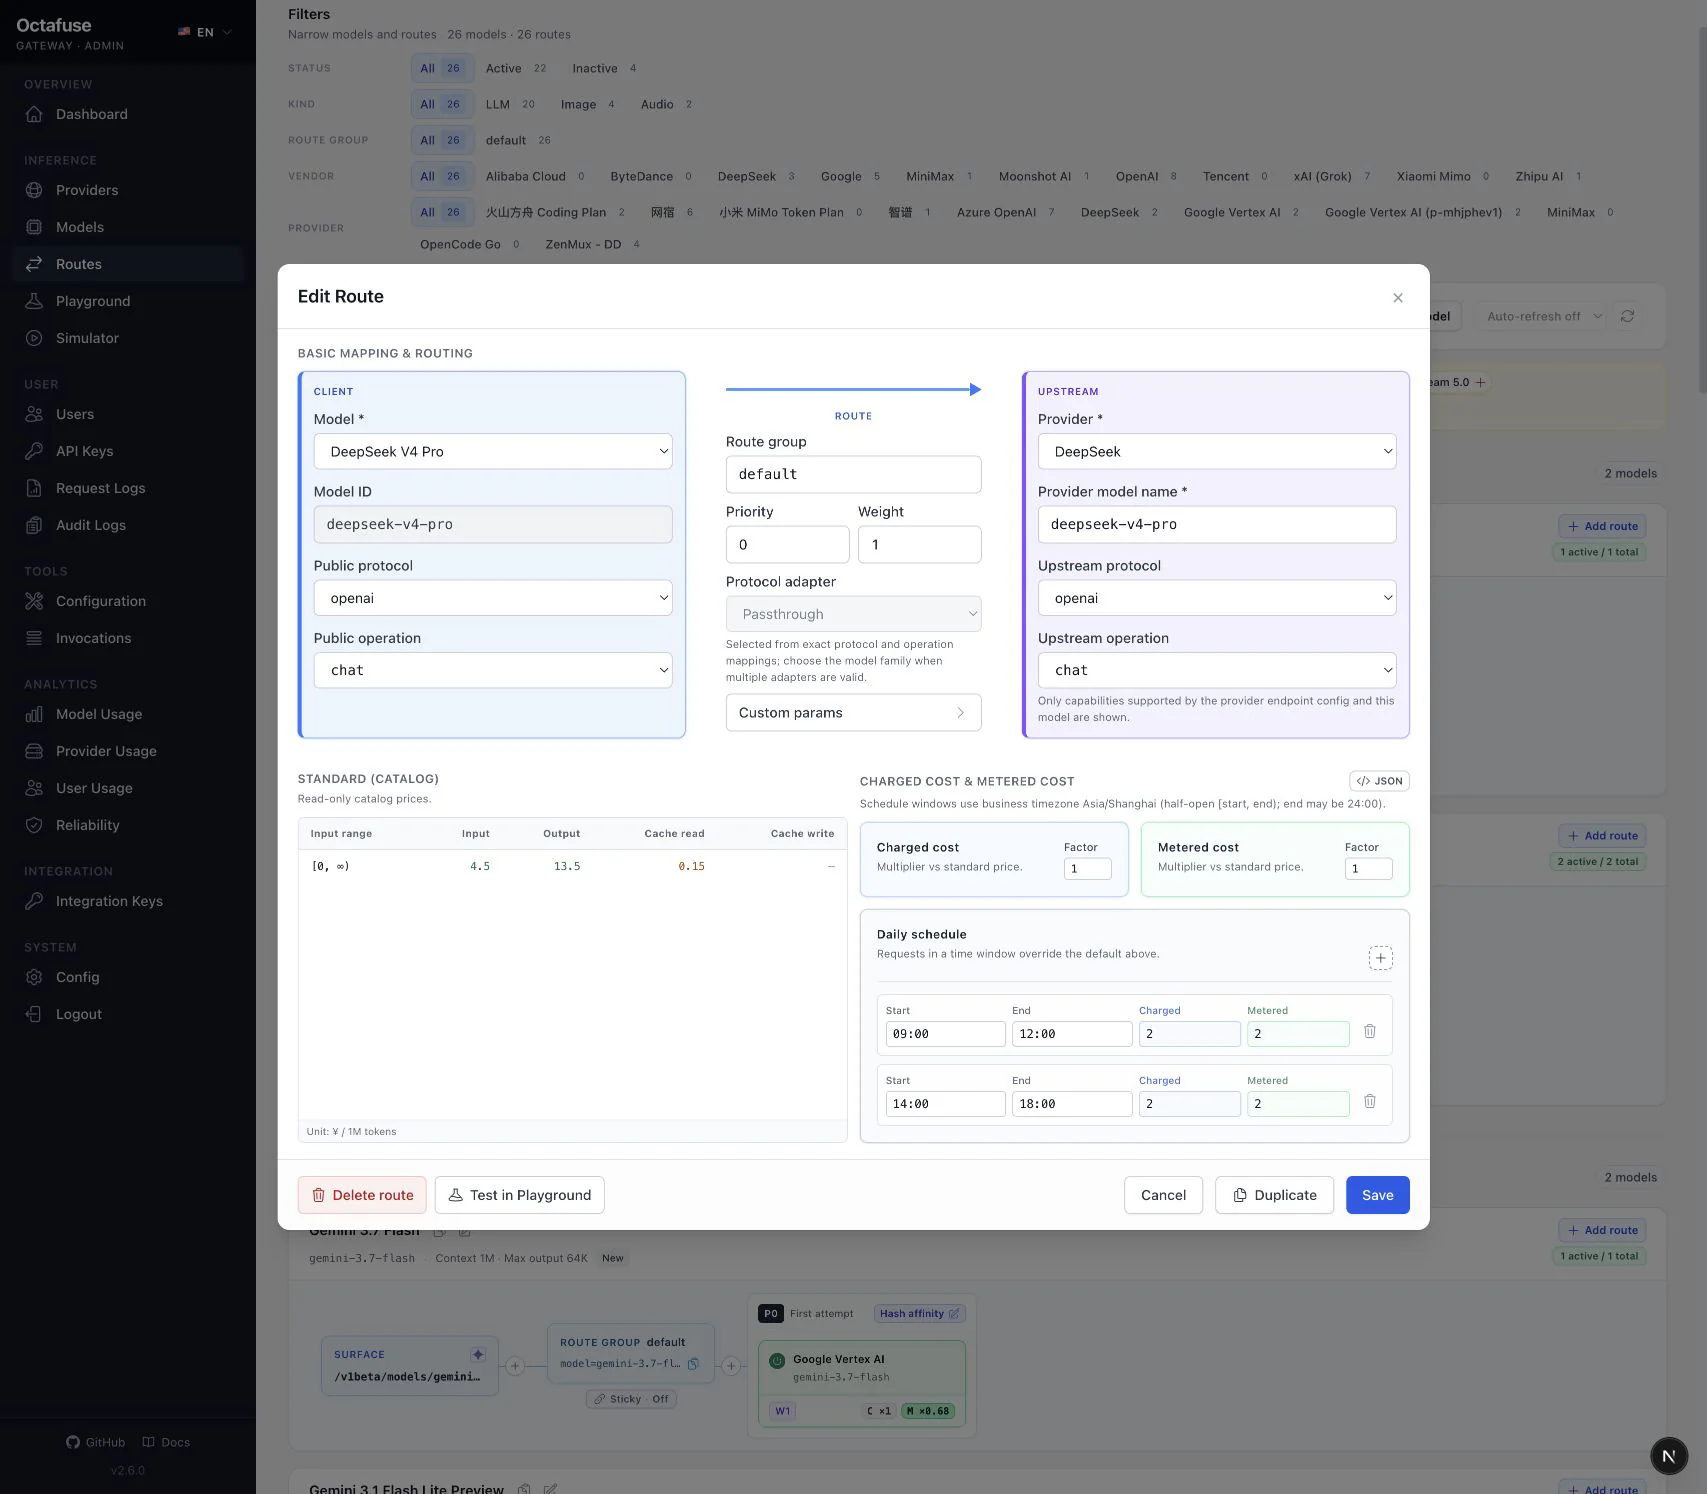
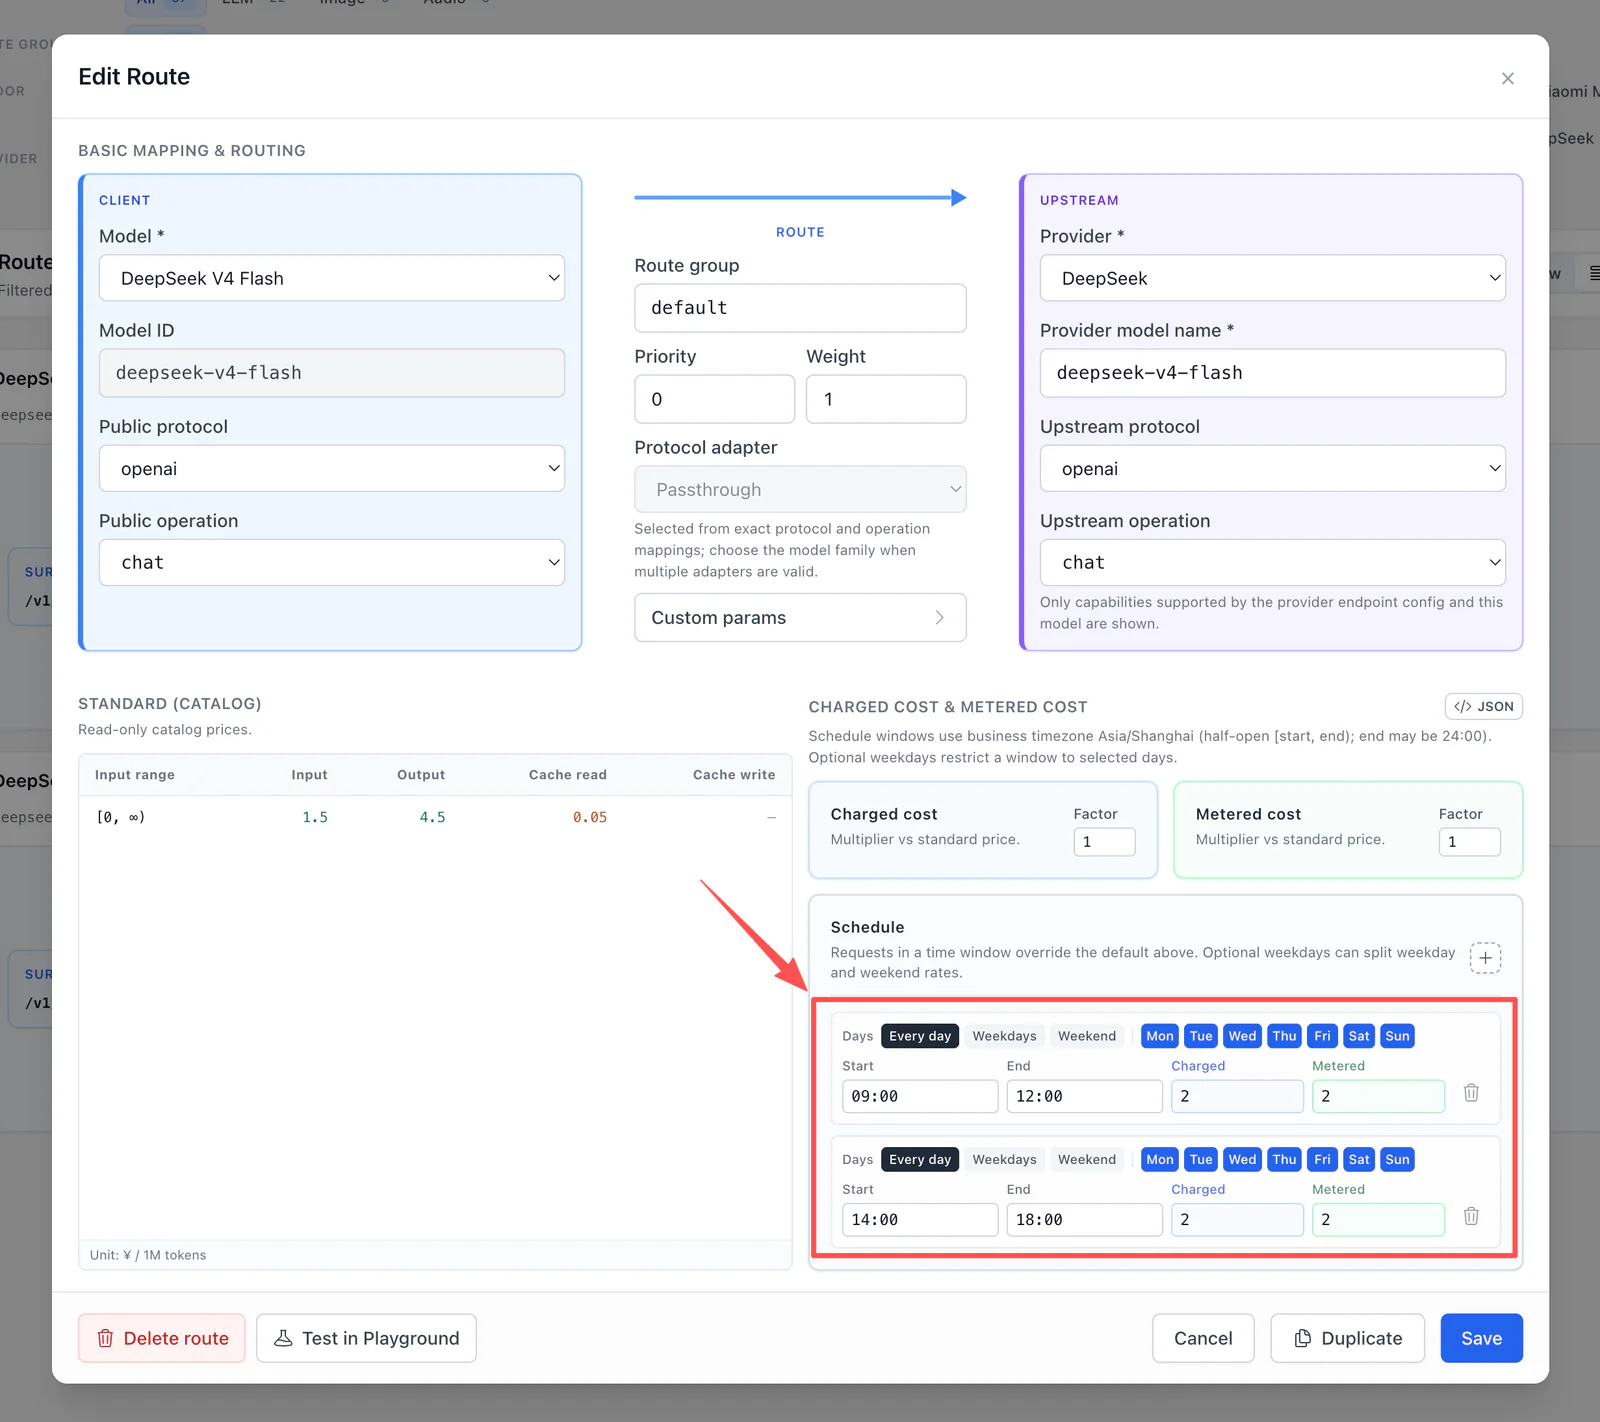
feat(docs): update README files to include new DashScope multimodal ASR and user-specific pricing factors
- Added documentation for the DashScope synchronous multimodal ASR endpoint across English, Japanese, Korean, and Chinese README files.
- Included details on per-model user factors for applying discounts or free access without altering catalog prices in the respective language files.
- Enhanced the overall clarity and completeness of the documentation to reflect recent feature updates.

diff --git a/docs/developers/architecture/runtime-data.md b/docs/developers/architecture/runtime-data.md
@@ -95,6 +95,11 @@ flowchart TB
 - 迁移 **`0019_route_strategy_canonical_ids`**（2.2.0 历史阶段）：将 `affinity` / `strict` / `round_robin` 硬切换为当时的 canonical ID `cache_affinity` / `fixed_order` / `weighted_round_robin`（`weighted_random` 不变）。覆盖 `system_config.ROUTE_STRATEGY`、`route_pools.strategy`、`route_pools.tier_strategies`、`models.route_policy`。历史步骤见 [route-strategy-canonical-ids-cutover.md](../../operators/migrations/route-strategy-canonical-ids-cutover.md)。
 - 迁移 **`0020_route_pool_sticky_routing`**：`route_pools` 增加 `sticky_enabled` / `sticky_idle_ttl_seconds` / `sticky_epoch`；新表 **`route_pool_sticky_bindings`**（跨 isolate 共享供应商粘性）。见 [route-pool-sticky-routing-cutover.md](../../operators/migrations/route-pool-sticky-routing-cutover.md)。
 - 迁移 **`0021_route_strategy_display_ids`**：将 `cache_affinity` / `fixed_order` 再次硬切换为现行 `hash_affinity` / `weight_priority`，覆盖上述四个持久化位置且无旧 ID 别名。维护窗口步骤与校验 SQL 见 [route-strategy-display-ids-cutover.md](../../operators/migrations/route-strategy-display-ids-cutover.md)。
+- 迁移 **`0022_request_log_audio_characters`**：请求日志增加 `audio_characters`，独立记录 TTS 上游返回的有效计费字符数。
+- 迁移 **`0023_admin_access_identity`**：新增 `admin_api_keys` / `admin_sessions`，并把历史 `system_config.MASTER_KEY` 复制为全权限 `legacy-master`。
+- 迁移 **`0024_drop_legacy_master_key_config`**：删除历史 `system_config.MASTER_KEY` 配置行；新版管理认证只读取具名 Admin API Key 与控制台会话。
+- 迁移 **`0025_user_audit_actor_index`**：为 `user_audit_logs(actor_id, created_at)` 增加操作主体查询索引。
+- 迁移 **`0026_user_charged_cost_factors`**：`users` 增加 `charged_cost_factors`，按目录模型 ID 保存用户计费倍率。
 
 #### Endpoint capability 维护规则
 
@@ -128,7 +133,7 @@ sequenceDiagram
 
   C->>P: Authorization Bearer sk-...
   P->>DB: getApiKeyWithUserByKey(key)
-  DB-->>P: key + user budget 列
+  DB-->>P: key + user budget 列 + charged_cost_factors
   P->>P: maybeResetBudget(user)
   alt 周期到期需落库
     P->>DB: updateUserBudgetWithAuditTx
@@ -154,8 +159,10 @@ sequenceDiagram
 > **0018 按优先级层策略切换步骤**：见 **[route-pool-tier-strategies-cutover.md](../../operators/migrations/route-pool-tier-strategies-cutover.md)**。
 > **0019 历史 canonical 策略 ID 切换步骤**：见 **[route-strategy-canonical-ids-cutover.md](../../operators/migrations/route-strategy-canonical-ids-cutover.md)**。
 > **0020 / 0021（2.3.0）切换步骤**：见 **[route-pool-sticky-routing-cutover.md](../../operators/migrations/route-pool-sticky-routing-cutover.md)** 与 **[route-strategy-display-ids-cutover.md](../../operators/migrations/route-strategy-display-ids-cutover.md)**。
+> **0022–0025（2.4.0）升级说明**：见 **[2.4.0 发布说明](../../releases/2.4.0.md#升级说明)**。
+> **0026（2.7.0）升级说明**：见 **[2.7.0 发布说明](../../releases/2.7.0.md#升级说明)**。
 
-### Schema（迁移 **0015–0021**，三库同语义）
+### Schema（迁移 **0015–0026**，三库同语义）
 
 | 对象 | 含义 |
 |------|------|
@@ -168,6 +175,10 @@ sequenceDiagram
 | **`model_routes.route_pool_id` / `upstream_operation` / `adapter`** | 上游目标所属路由池、上游 capability 与转换方式；同协议使用 `passthrough`，OpenAI ASR / TTS 转 DashScope 使用显式白名单 adapter |
 | **`models.route_policy`** | 可选 TEXT JSON：`strategy` + `rules`；`NULL` = 回退全局 |
 | **`system_config.ROUTE_STRATEGY`** | 全局缺省策略（默认 `hash_affinity`；进程内缓存 30s） |
+| **`api_key_request_logs.audio_characters`** | TTS 上游返回的有效计费字符数；与 ASR 时长独立记录 |
+| **`admin_api_keys` / `admin_sessions`** | 具名管理 API Key 与持久化控制台会话；不再从 `system_config.MASTER_KEY` 鉴权 |
+| **`user_audit_logs(actor_id, created_at)`** | 按操作主体与时间检索用户审计的联合索引 |
+| **`users.charged_cost_factors`** | 可选 JSON：目录模型 ID → 非负用户计费倍率；只改变最终用户费用与预算累加 |
 
 已移除：`provider_api_keys`、`limit_config`（网关 RPM/TPM/并发软限流）、`models.sticky_config`（旧粘性 key 绑定；由路由池级 **供应商粘性** + `route_pool_sticky_bindings` 替代）。
 

diff --git a/docs/operators/deployment/cloudflare-quickstart.md b/docs/operators/deployment/cloudflare-quickstart.md
@@ -29,7 +29,7 @@ Operator
 
 ## 版本基线
 
-当前仓库版本为 **Octafuse Gateway 2.3.0**，D1 迁移共 **21 个**（截至 `0021_route_strategy_display_ids.sql`）。跨版本升级必须按编号应用全部未执行迁移；从 1.11.x 升级先阅读 [2.0 升级指南](../migrations/single-provider-key-cutover.md)，从 2.2.0 升级 2.3.0 见 [迁移与切换索引](../README.md#迁移与切换)（0020 → 0021）。
+当前仓库版本为 **Octafuse Gateway 2.7.0**，D1 迁移共 **26 个**（截至 `0026_user_charged_cost_factors.sql`）。跨版本升级必须按编号应用全部未执行迁移；从 1.11.x 升级先阅读 [2.0 升级指南](../migrations/single-provider-key-cutover.md)，后续版本的迁移顺序见[迁移与切换索引](../README.md#迁移与切换)。升级到 2.7.0 必须应用 0026，并部署同版本的 Proxy 与 Admin。
 
 下列构建体积来自 2026-07-24 对 `1.10.2` 的历史实测，仅用于量级参考；当前部署应以本次终端输出为准：
 
@@ -41,7 +41,7 @@ Operator
 | `@opennextjs/cloudflare` | 1.19.4 |
 | 代理服务 gzip | 194.31 KiB |
 | 管理后台 gzip | 2925.55 KiB |
-| 当时 D1 migrations | 13 个全部成功（2.3.0 当前为 21 个） |
+| 当时 D1 migrations | 13 个全部成功（2.7.0 当前为 26 个） |
 
 Cloudflare Workers Free 的单 Worker gzip 上限为 3 MiB；管理后台实测低于该上限，但余量不大。部署时应检查自己终端中的 `Total Upload ... gzip`，不要只依赖本文的历史数值。限制以 [Cloudflare Workers Limits](https://developers.cloudflare.com/workers/platform/limits/#worker-size) 为准。若免费额度余量吃紧或流量上来，也推荐升级 [Workers Paid](https://developers.cloudflare.com/workers/platform/pricing/)（约 $5/月）——量大管饱，性价比极高。
 

diff --git a/README.ko.md b/README.ko.md
@@ -28,6 +28,7 @@ Octafuse Gateway의 핵심 목표는 **1인 기업(OPC) 또는 기업 내부를 
       - Models: `GET /v1/models`
     - Anthropic 엔드포인트: `POST /v1/messages`
     - Google Gemini 엔드포인트: `POST /v1beta/models/{model}:generateContent` (`streamGenerateContent` 포함)
+    - DashScope 동기식 멀티모달 ASR: `POST /v1/dashscope/services/aigc/multimodal-generation/generation`
     - DashScope 실시간 오디오: `GET /v1/dashscope/realtime`
 4. Agent 도구 연결: `/v1/tools/*`를 통해 Agent용 도구를 통합 제공하고 로그, 과금, 비용 관리를 중앙화합니다. 모델과 도구를 하나의 Gateway에서 사용할 수 있습니다.
     - 웹 검색(`POST /v1/tools/web-search`): Bocha, Tavily, Alibaba Cloud CleverSee, Tencent Cloud WSA
@@ -45,6 +46,7 @@ Octafuse Gateway의 핵심 목표는 **1인 기업(OPC) 또는 기업 내부를 
     - External system, User, API Key의 3단계 구조: External system으로 시스템이나 팀을 구분하고 API Key로 인증, 과금, 감사를 수행합니다
     - 세 가지 원장: 각 호출의 카탈로그 가격, 실제 Provider 비용, 사용자 청구액을 별도로 기록합니다
     - 시간대별 배율: 피크 / 비피크 가격과 평일·주말 배수를 이용해 비용 계산 정확도를 높이고 고객 가격과 프로모션을 유연하게 구성합니다
+    - 모델별 사용자 배율: 사용자와 카탈로그 모델별로 할인, 할증 또는 무료 이용을 설정하며 카탈로그 가격과 Provider 비용은 변경하지 않습니다
 8. 관리 화면과 관리 API:
     - 수동 운영과 외부 포털 연동을 모두 지원하는 관리 화면 및 API
     - 요청 상세, 통계, 운영 분석을 제공하는 관측성과 데이터 분석

diff --git a/README.en.md b/README.en.md
@@ -28,6 +28,7 @@ Its core capabilities include:
       - Models: `GET /v1/models`
     - Anthropic endpoint: `POST /v1/messages`
     - Google Gemini endpoint: `POST /v1beta/models/{model}:generateContent` (including `streamGenerateContent`)
+    - DashScope synchronous multimodal ASR: `POST /v1/dashscope/services/aigc/multimodal-generation/generation`
     - DashScope realtime audio: `GET /v1/dashscope/realtime`
 4. Agent tool access: Use `/v1/tools/*` to expose tools to agents with centralized logging, billing, and cost control, so models and tools share one Gateway:
     - Web search (`POST /v1/tools/web-search`): Bocha, Tavily, Alibaba Cloud CleverSee, Tencent Cloud WSA
@@ -45,6 +46,7 @@ Its core capabilities include:
     - Three-level External system, User, and API Key hierarchy: the external-system field separates systems or teams, while API Keys authenticate calls and drive charging and auditing
     - Three ledgers: every invocation records catalog price, actual provider cost, and user charge separately
     - Time-of-day multipliers: peak / off-peak pricing, including weekday vs weekend rates, improves cost accuracy and enables flexible customer pricing and promotions
+    - Per-model user factors: apply a discount, markup, or free access for one user and catalog model without changing catalog price or provider cost
 8. Admin console and management APIs:
     - Full Admin UI and APIs for manual operation or integration with other portals
     - Observability and analytics for request details, statistics, and operational analysis

diff --git a/docs/users/connect-clients.md b/docs/users/connect-clients.md
@@ -74,7 +74,28 @@ curl -sS http://localhost:8787/v1/audio/speech \
   --output speech.mp3
 ```
 
-DashScope 原生实时 ASR / TTS 使用 `/v1/dashscope/realtime` WebSocket 入口，连接参数与 operation 见 [DashScope 音频架构](../developers/architecture/dashscope-audio.md)。
+DashScope 同步多模态 ASR 使用原生 JSON 入口（需配置 `dashscope` + `audio.transcriptions.multimodal` 请求入口与同协议 `passthrough` 上游）：
+
+```bash
+curl -sS http://localhost:8787/v1/dashscope/services/aigc/multimodal-generation/generation \
+  -H "Authorization: Bearer sk-your-api-key" \
+  -H "Content-Type: application/json" \
+  -d '{
+    "model": "your-asr-model",
+    "input": {
+      "messages": [{
+        "role": "user",
+        "content": [{
+          "type": "input_audio",
+          "input_audio": {"data": "https://example.com/sample.wav"}
+        }]
+      }]
+    },
+    "parameters": {"format": "wav", "language_hints": ["zh"]}
+  }'
+```
+
+网关返回 DashScope 原生 JSON，并按上游 `usage.duration` / `usage.seconds` 记录时长和费用。DashScope 原生实时 ASR / TTS 则继续使用 `/v1/dashscope/realtime` WebSocket 入口；连接参数与 operation 见 [DashScope 音频架构](../developers/architecture/dashscope-audio.md)。
 
 智能体工具（Agent Tools；需用户 Key；管理后台 → 智能体工具已为对应工具配置活跃引擎与第三方 API Key）提供 `POST /v1/tools/web-search`、`POST /v1/tools/web-fetch`、`POST /v1/tools/web-deep-search`。示例如下：
 

diff --git a/docs/operators/README.md b/docs/operators/README.md
@@ -23,9 +23,13 @@
 | 2.1.2 → 2.2.0：路由策略 canonical ID 硬切换（迁移 0019） | [migrations/route-strategy-canonical-ids-cutover.md](./migrations/route-strategy-canonical-ids-cutover.md) |
 | 2.2.0 → 2.3.0：Route Pool Provider Sticky（迁移 0020） | [migrations/route-pool-sticky-routing-cutover.md](./migrations/route-pool-sticky-routing-cutover.md) |
 | 2.2.0 → 2.3.0：路由策略展示对齐 ID 硬切换（迁移 0021：`hash_affinity` / `weight_priority`） | [migrations/route-strategy-display-ids-cutover.md](./migrations/route-strategy-display-ids-cutover.md) |
+| 2.3.0 → 2.4.0：音频字符、具名 Admin Key 与审计索引（迁移 0022–0025） | [2.4.0 发布说明](../releases/2.4.0.md#升级说明) |
+| 2.6.0 → 2.7.0：用户级模型计费倍率（迁移 0026） | [2.7.0 发布说明](../releases/2.7.0.md#升级说明) |
 | User audit 兼容导出移除说明 | [migrations/user-audit-legacy-exports.md](./migrations/user-audit-legacy-exports.md) |
 
 升级到 **2.3.0** 时应在同一维护窗口内按 **0020 → 0021 → 同版本 Proxy / Admin 部署**执行；0021 无旧策略 ID 别名，禁止新旧版本混跑。
+
+升级到 **2.7.0** 时须确保迁移已执行到 **0026**。若当前为 2.3.0，需要依次执行 0022–0026；更早版本还应先完成上表中的前序迁移。随后统一部署 v2.7.0 的 Proxy、Admin 与 migrate 镜像。未配置 `charged_cost_factors` 的用户行为保持不变。
 
 ## 本地演练
 

diff --git a/docs/operators/deployment/docker.md b/docs/operators/deployment/docker.md
@@ -312,6 +312,8 @@ gateway-admin.example.com {
 
 升级前阅读目标版本 [GitHub Release](https://github.com/OctaFuse/octafuse-gateway/releases) / `CHANGELOG.md` 中的 **升级说明**（破坏性变更、必做迁移、维护窗口）。推荐顺序：**先 migrate，再滚动重启代理服务 / 管理后台**；或仅在一侧开启 `AUTO_MIGRATE=1`（见 §5）。
 
+> **升级到 v2.7.0**：必须应用迁移 **0026**。请将 Proxy、Admin 与 migrate 镜像统一升级到 v2.7.0，先执行 migrate，再启动应用；不要混用不同版本镜像。
+
 ### 8.1 预构建镜像（GHCR / 私有 registry）
 
 1. 编辑宿主机 env（通常在 `docker/deploy/`，由 `docker/examples/env.*.example` 复制）：将 `GATEWAY_PROXY_IMAGE`、`GATEWAY_ADMIN_IMAGE`、`GATEWAY_MIGRATE_IMAGE` 的 **tag** 改为目标版本（生产钉死 `vX.Y.Z`；需要可复现固定时从 GHCR 包页核对 **digest**）。

diff --git a/docs/operators/deployment/README.md b/docs/operators/deployment/README.md
@@ -21,6 +21,8 @@
 | Cloudflare 已上线实例升级 | [cloudflare-quickstart.md §12](./cloudflare-quickstart.md#12-后续升级) |
 | 2.1.2 → 2.2.0 数据迁移与维护窗口 | [迁移索引](../README.md#迁移与切换)（0017 → 0018 → 0019） |
 | 2.2.0 → 2.3.0 数据迁移与维护窗口 | [迁移索引](../README.md#迁移与切换)（0020 → 0021） |
+| 2.3.0 → 2.4.0 数据迁移与认证切换 | [迁移索引](../README.md#迁移与切换)（0022 → 0025） |
+| 2.6.0 → 2.7.0 用户级模型计费倍率 | [2.7.0 发布说明](../../releases/2.7.0.md#升级说明)（0026） |
 | Zeabur 等容器平台 | [zeabur.md](./zeabur.md) |
 | D1 ↔ Postgres ETL / 对账 | [d1-postgres-cutover.md](../migrations/d1-postgres-cutover.md) |
 | 本地开发组合 | [local-development.md](../../developers/local-development.md) |
